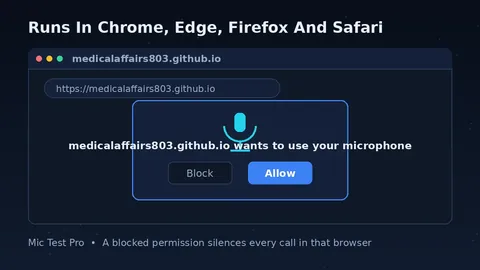
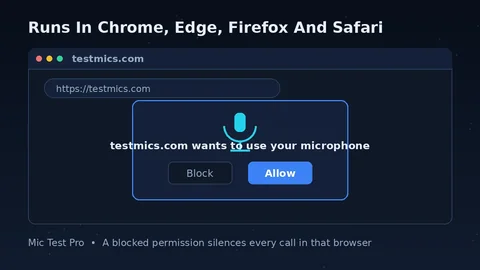
Fix domain leftovers + mobile nav wrap: home-4 browsers image testmics.com, robots sitemap testmics.com, mobile nav gap 16px (style.css re-inlined all pages); script.js untouched

Changed region(s): [[0.125, 0.5037, 0.875, 0.563], [0.1875, 0.2963, 0.4688, 0.3556], [0.1562, 0.1778, 0.4688, 0.237]]

diff --git a/bluetooth-mic-test.html b/bluetooth-mic-test.html
@@ -980,6 +980,8 @@ details p{
 
     justify-content:center;
 
+    gap:16px;
+
   }
 
   .hero-content h1{

diff --git a/gaming-mic-test.html b/gaming-mic-test.html
@@ -980,6 +980,8 @@ details p{
 
     justify-content:center;
 
+    gap:16px;
+
   }
 
   .hero-content h1{

diff --git a/index.html b/index.html
@@ -983,6 +983,8 @@ details p{
 
     justify-content:center;
 
+    gap:16px;
+
   }
 
   .hero-content h1{

diff --git a/mic-test-for-discord.html b/mic-test-for-discord.html
@@ -980,6 +980,8 @@ details p{
 
     justify-content:center;
 
+    gap:16px;
+
   }
 
   .hero-content h1{

diff --git a/mic-test-for-google-meet.html b/mic-test-for-google-meet.html
@@ -980,6 +980,8 @@ details p{
 
     justify-content:center;
 
+    gap:16px;
+
   }
 
   .hero-content h1{

diff --git a/mic-test-for-teams.html b/mic-test-for-teams.html
@@ -980,6 +980,8 @@ details p{
 
     justify-content:center;
 
+    gap:16px;
+
   }
 
   .hero-content h1{

diff --git a/mic-test-for-zoom.html b/mic-test-for-zoom.html
@@ -980,6 +980,8 @@ details p{
 
     justify-content:center;
 
+    gap:16px;
+
   }
 
   .hero-content h1{

diff --git a/style.css b/style.css
@@ -954,6 +954,8 @@ details p{
 
     justify-content:center;
 
+    gap:16px;
+
   }
 
   .hero-content h1{

diff --git a/usb-microphone-test.html b/usb-microphone-test.html
@@ -980,6 +980,8 @@ details p{
 
     justify-content:center;
 
+    gap:16px;
+
   }
 
   .hero-content h1{
